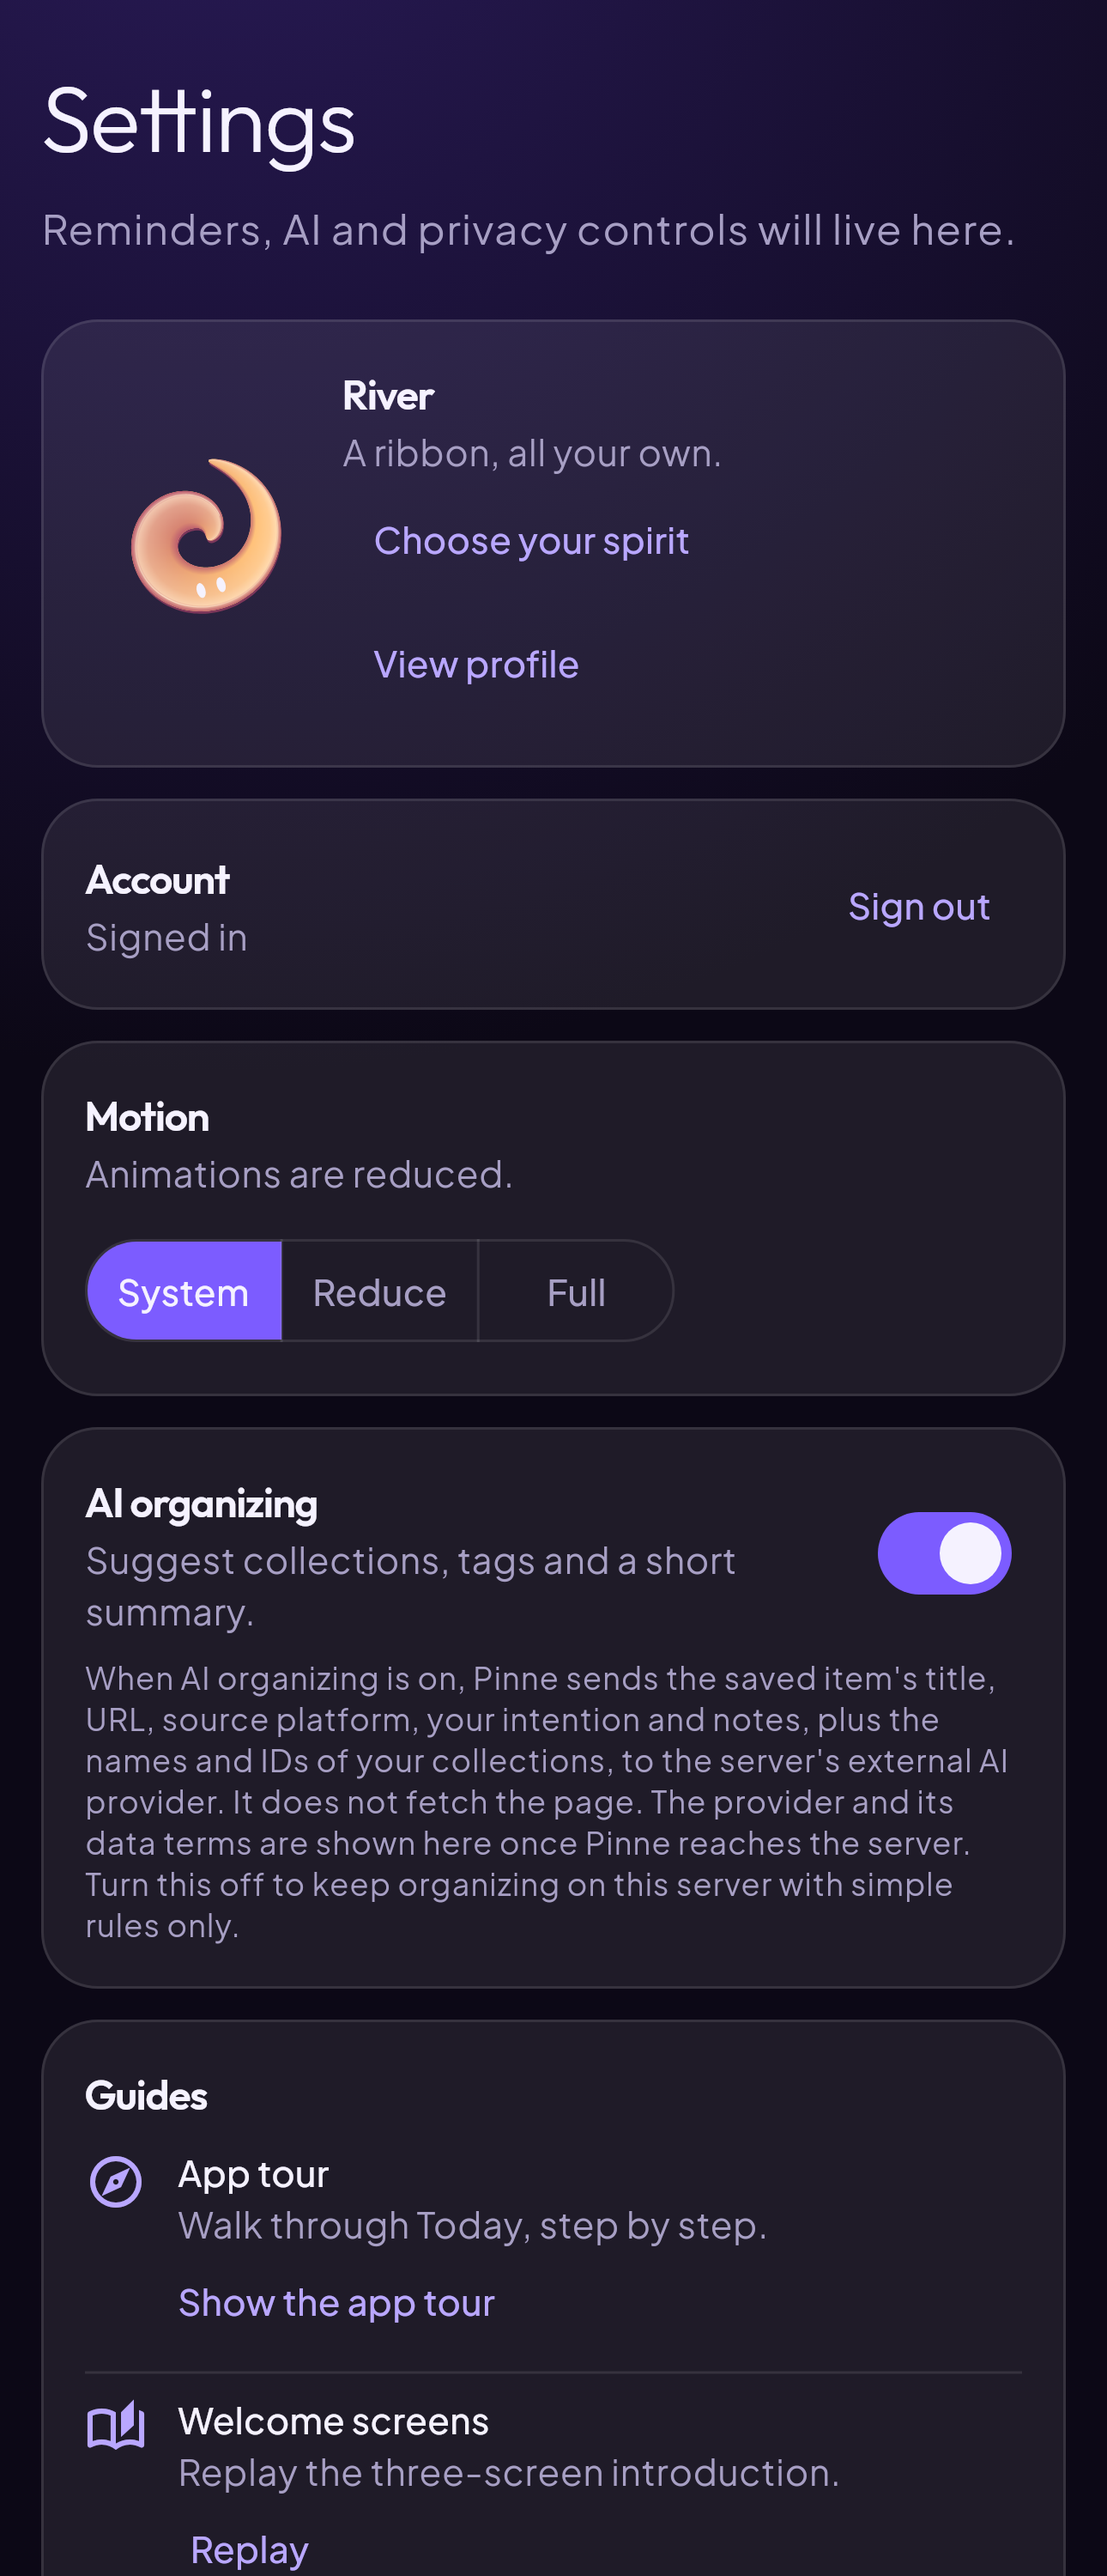
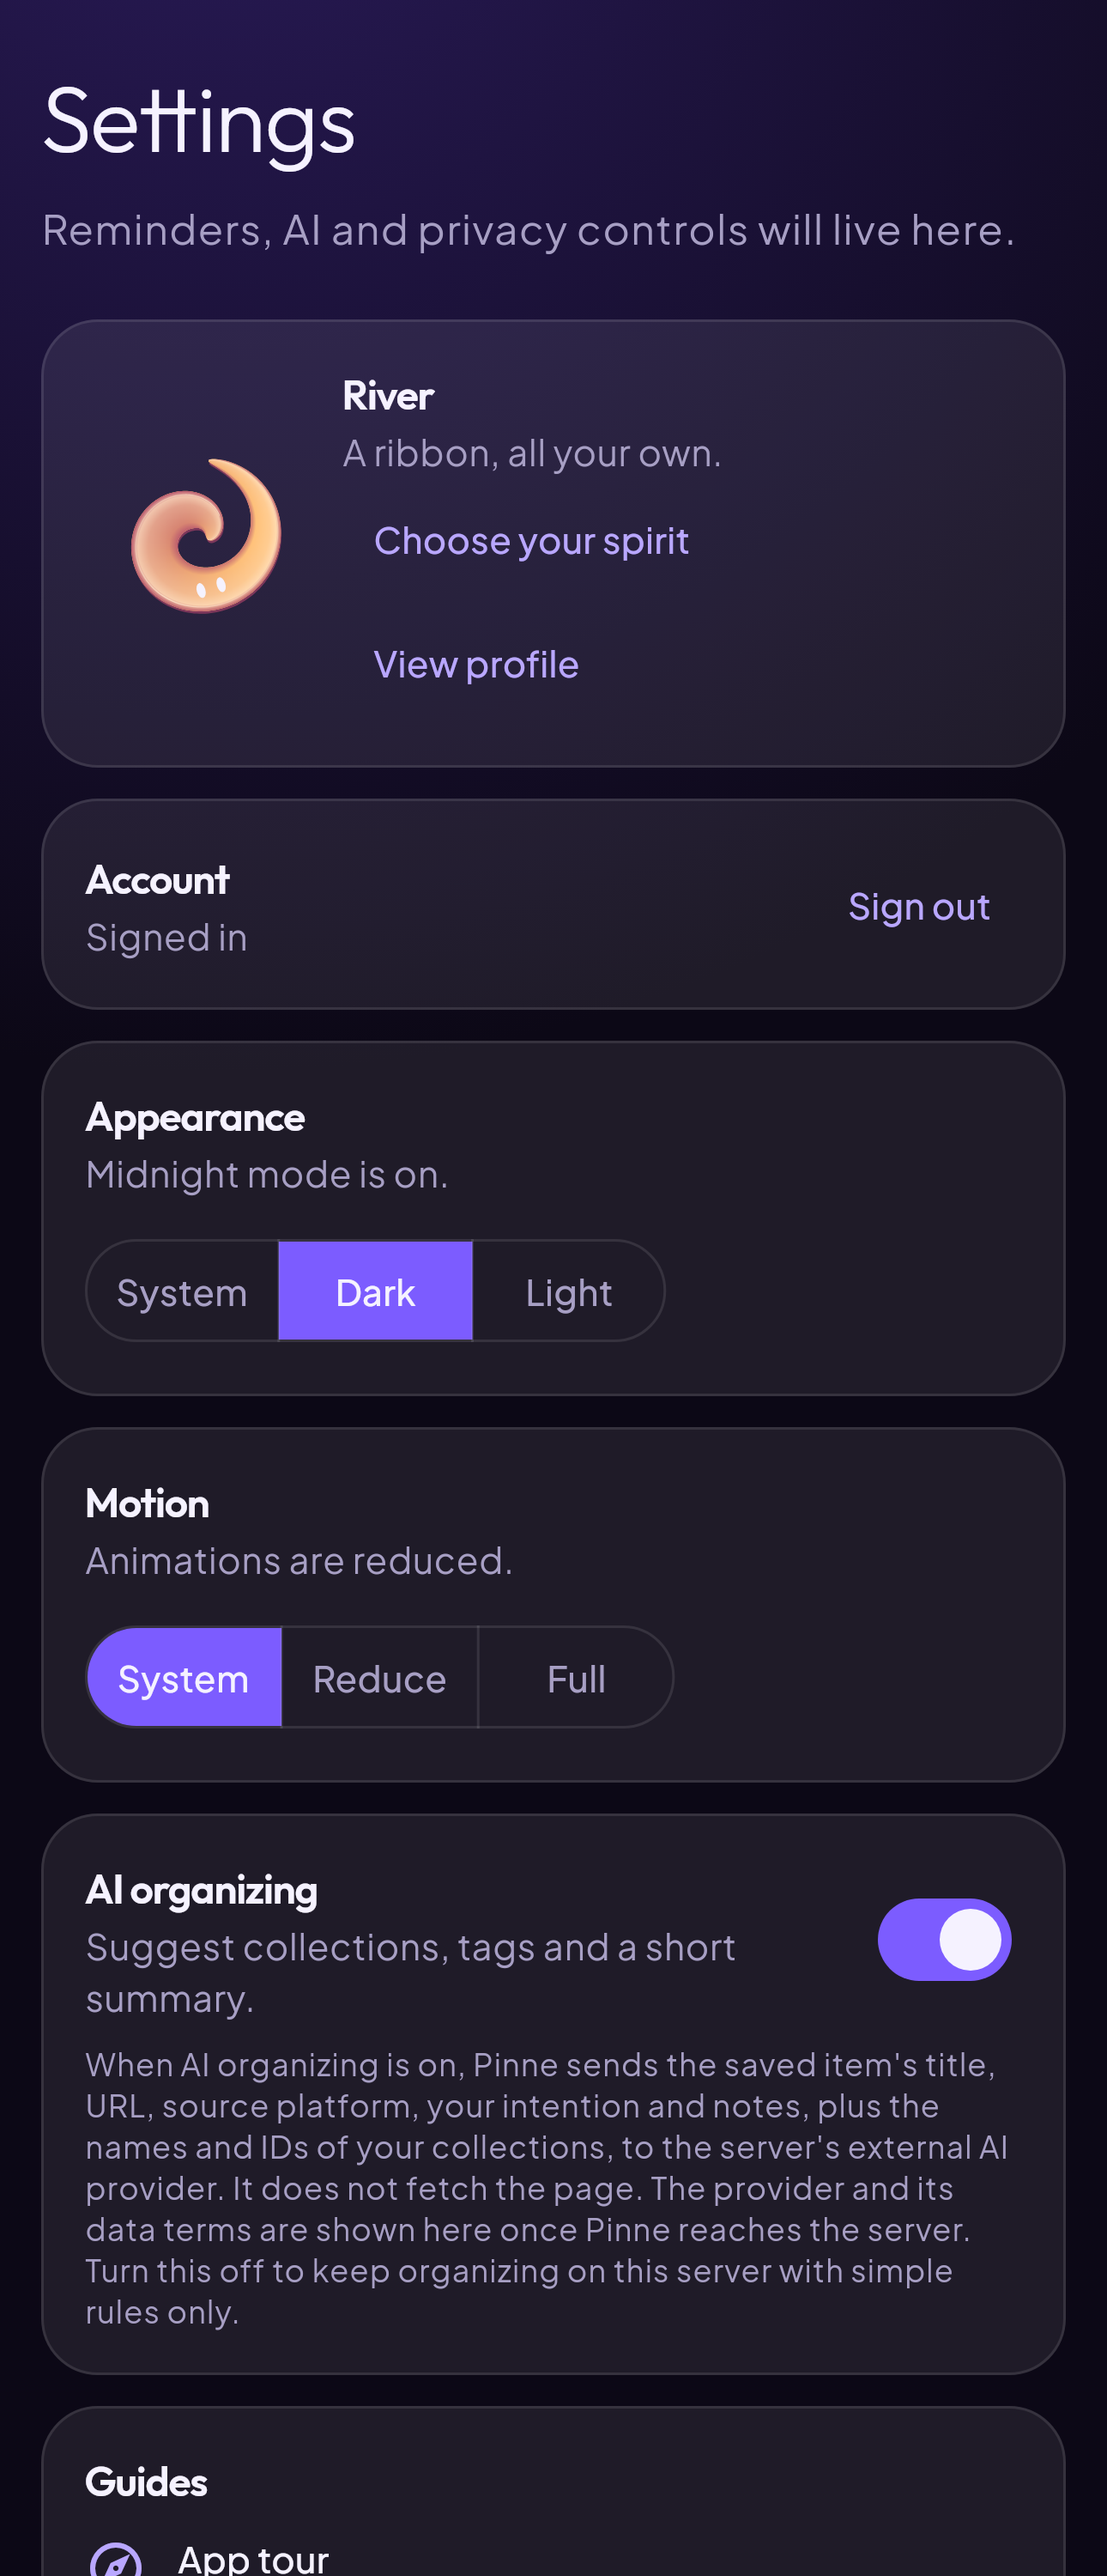
test: light theme goldens, contrast and theme-mode persistence
Fix light-only regressions found by the goldens: the capture tile plus
icon and EXAMPLE badge use onViolet, search result tiles use the themed
palette. The dark Settings golden gains the Appearance card.

diff --git a/pinne_flutter/lib/features/search/search_screen.dart b/pinne_flutter/lib/features/search/search_screen.dart
@@ -150,7 +150,8 @@ class _SearchScreenState extends ConsumerState<SearchScreen> {
                   SearchResultCard(
                     key: ValueKey('search-result-${data.results[i].item.id}'),
                     result: data.results[i],
-                    color: PinneColors
+                    color: context
+                        .pinne
                         .tilePalette[i % context.pinne.tilePalette.length],
                     onOpen: () => _open(data.results[i].item),
                   ),

diff --git a/pinne_flutter/lib/features/capture/paste_capture_card.dart b/pinne_flutter/lib/features/capture/paste_capture_card.dart
@@ -67,7 +67,7 @@ class CaptureEntryTile extends StatelessWidget {
                   color: context.pinne.ink,
                   shape: BoxShape.circle,
                 ),
-                child: Icon(Icons.add_rounded, color: context.pinne.text),
+                child: Icon(Icons.add_rounded, color: context.pinne.onViolet),
               ),
               const SizedBox(width: PinneSpacing.md),
               Expanded(

diff --git a/pinne_flutter/lib/features/examples/example_saves.dart b/pinne_flutter/lib/features/examples/example_saves.dart
@@ -164,7 +164,7 @@ class ExampleChip extends StatelessWidget {
     child: Text(
       'EXAMPLE',
       style: TextStyle(
-        color: dark ? context.pinne.ink : context.pinne.text,
+        color: dark ? context.pinne.ink : context.pinne.onViolet,
         fontSize: 9,
         fontWeight: FontWeight.w900,
         letterSpacing: .8,
